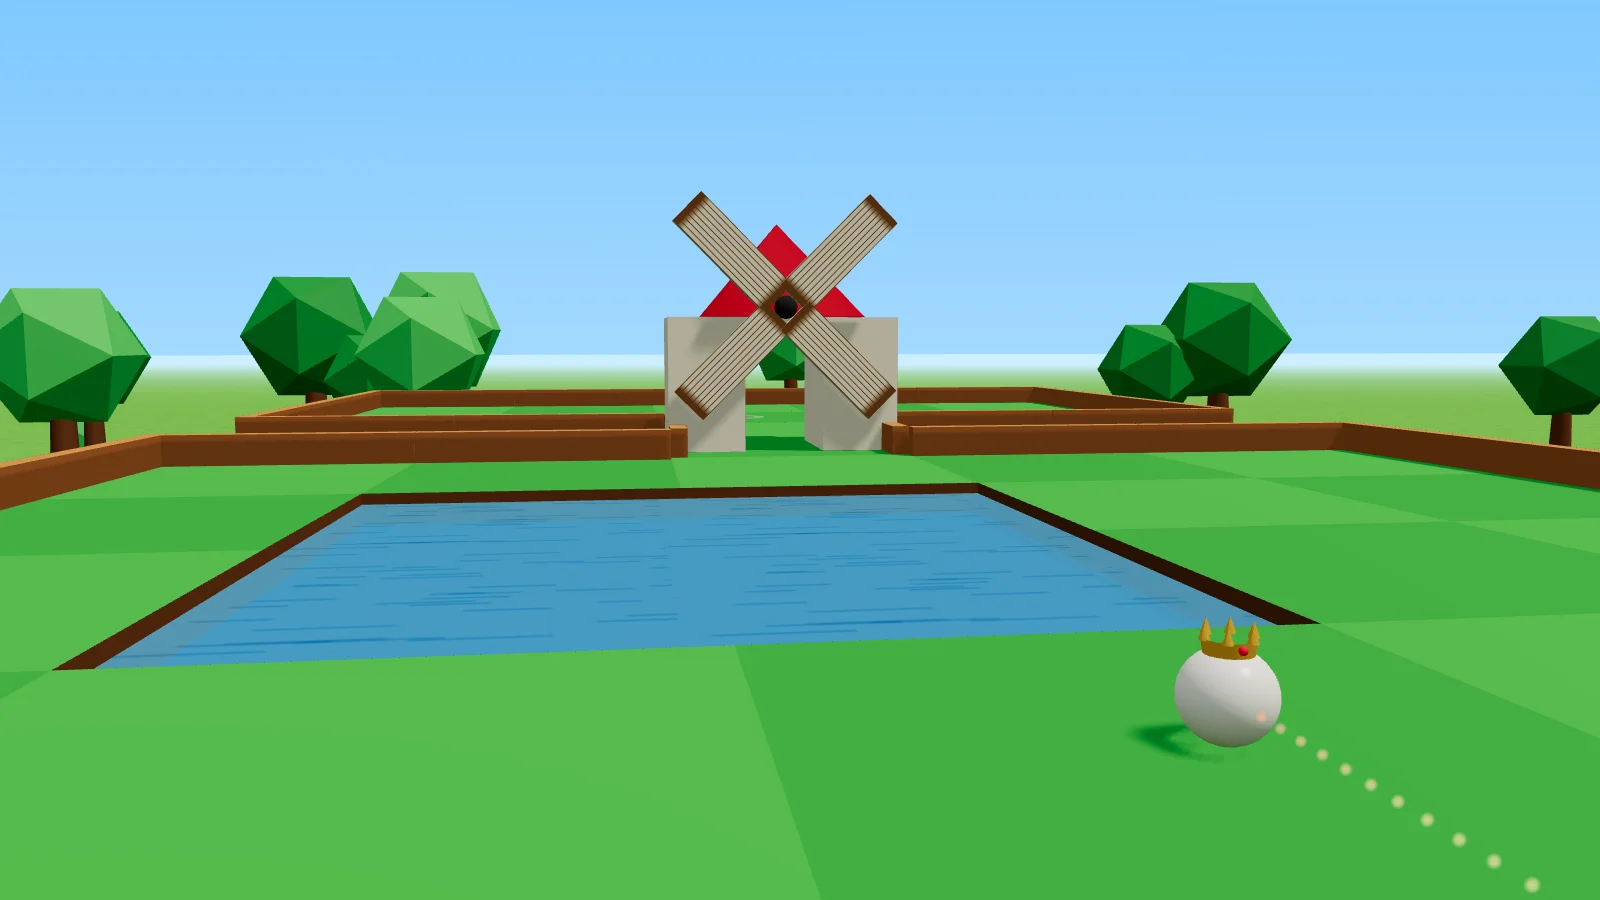
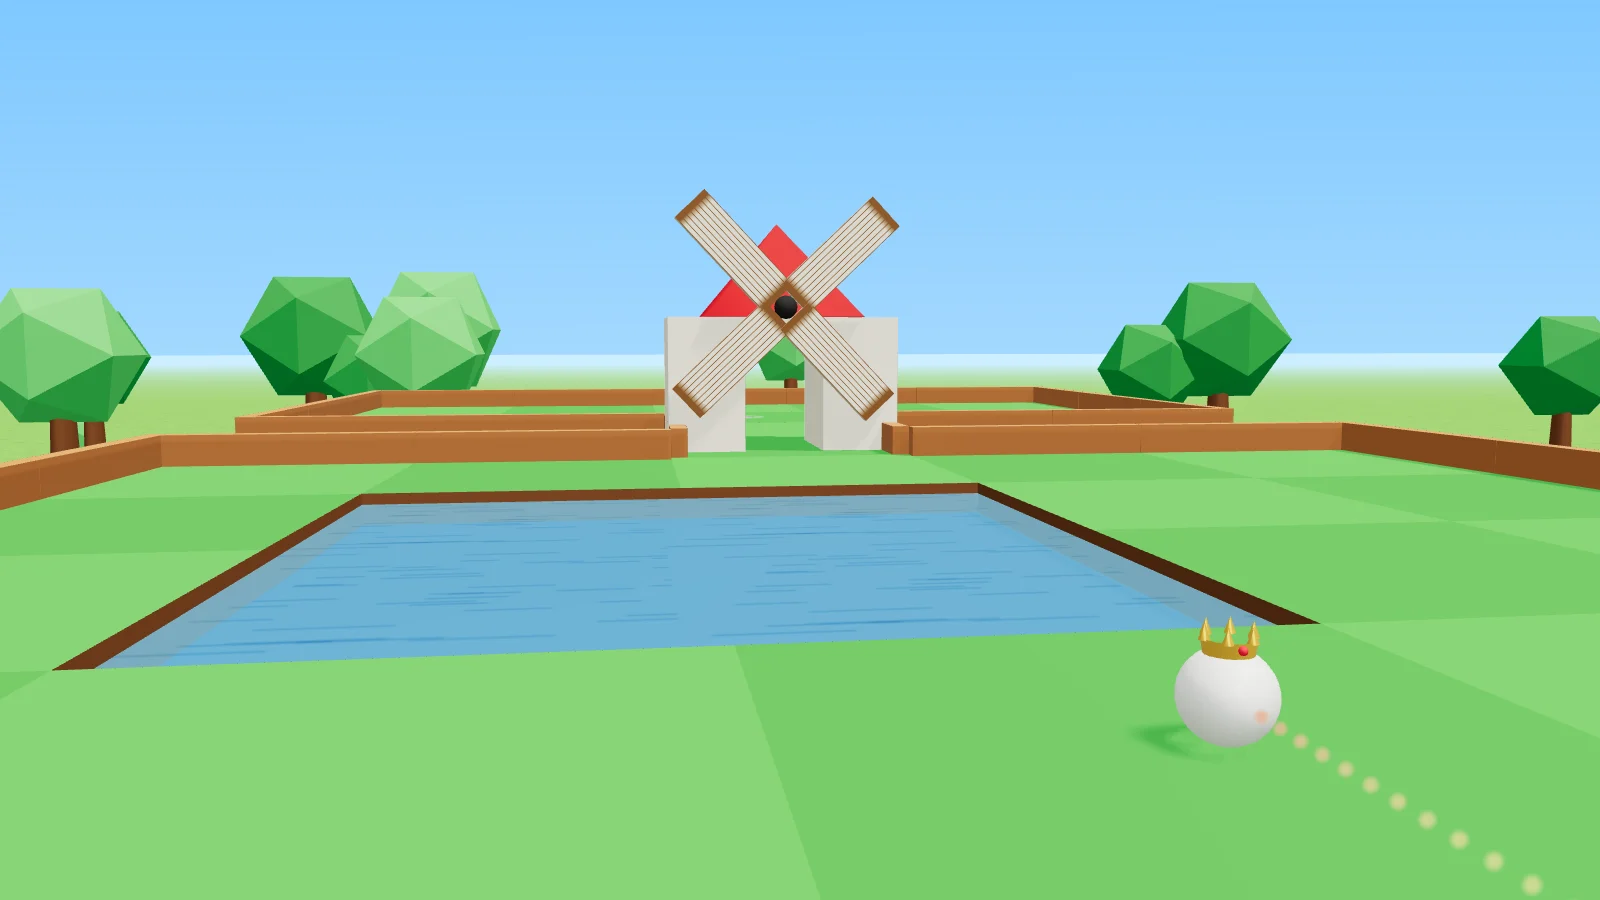
Minigolf Baso: riflessi ambiente, cancelli e lava/acqua con texture, scorecard e test e2e del giro completo
Claude-Session: https://claude.ai/code/session_016m2WYRmSGpEHYcJ2gk4eQy

diff --git a/src/minigolf/render.js b/src/minigolf/render.js
@@ -2,6 +2,7 @@
 // moving pieces drawn from the physics shapes (what you see is what the ball hits), themed props
 // around the course, the ball with its hat and trail, and the aiming helpers.
 import * as THREE from 'three';
+import { RoomEnvironment } from 'three/examples/jsm/environments/RoomEnvironment.js';
 import { LV, BALL_R, CUP_R, DIRS, isHaz, cornerY } from './holes.js';
 import { THEMES } from './courses.js';
 
@@ -104,6 +105,8 @@ export class HoleView {
       Object.assign(sun.shadow.camera, { left: -S, right: S, top: S, bottom: -S, near: 1, far: 50 });
       sun.shadow.mapSize.set(hi ? 2048 : 1024, hi ? 2048 : 1024); sun.shadow.bias = -0.0005; sun.shadow.normalBias = 0.01;
     } else renderer.shadowMap.enabled = false;
+    // soft studio reflections for metals and shiny balls (not on the lowest tier)
+    if (!low) { const pm = new THREE.PMREMGenerator(renderer); this.envTex = scene.environment = pm.fromScene(new RoomEnvironment(), 0.04).texture; pm.dispose(); scene.environmentIntensity = 0.3; }
     this.anim = [];
     this.buildCourse();
     this.buildProps();
@@ -242,7 +245,7 @@ export class HoleView {
       const geom = new THREE.BoxGeometry(k.half[0] * 2, k.half[1] * 2, k.half[2] * 2);
       const m = new THREE.Mesh(geom, k.type === 'blade'
         ? new THREE.MeshStandardMaterial({ color: '#fff', map: canvasTex(32, 128, (g, W, H) => { g.fillStyle = '#f7efe2'; g.fillRect(0, 0, W, H); g.strokeStyle = '#8a5a2b'; g.lineWidth = 3; for (let y = 0; y < H; y += 16) { g.beginPath(); g.moveTo(0, y); g.lineTo(W, y); g.stroke(); } g.strokeRect(1, 1, W - 2, H - 2); }), roughness: 0.7 })
-        : new THREE.MeshStandardMaterial({ color: this.opts.theme === 'castello' ? '#5b5b66' : '#ff8a1f', metalness: this.opts.theme === 'castello' ? 0.6 : 0.1, roughness: 0.45, emissive: this.opts.theme === 'spazio' ? '#ff5f9e' : '#000', emissiveIntensity: 0.25 }));
+        : new THREE.MeshStandardMaterial({ color: this.opts.theme === 'castello' ? '#8a8fa0' : '#ff8a1f', map: this.opts.theme === 'castello' ? canvasTex(64, 32, (g, W, H) => { g.fillStyle = '#6d717e'; g.fillRect(0, 0, W, H); g.fillStyle = '#2d2f36'; for (let x = 4; x < W; x += 12) g.fillRect(x, 0, 4, H); for (let y = 6; y < H; y += 12) g.fillRect(0, y, W, 3); }) : null, metalness: this.opts.theme === 'castello' ? 0.3 : 0.1, roughness: 0.45, emissive: this.opts.theme === 'spazio' ? '#ff5f9e' : '#000', emissiveIntensity: 0.25 }));
       m.castShadow = true; this.scene.add(m); return m;
     });
   }
@@ -398,7 +401,7 @@ export class HoleView {
   bump(b) { const v = this.bumperMeshes.get(b); if (v) v.hit = 1; }
   dispose() {
     this.scene.traverse((o) => { o.geometry?.dispose?.(); const ms = Array.isArray(o.material) ? o.material : o.material ? [o.material] : []; for (const m of ms) { if (m.map && m.map !== DOT[0] && m.map !== DOT[1]) m.map.dispose(); m.dispose?.(); } });
-    this.scene.background?.dispose?.();
+    this.scene.background?.dispose?.(); this.envTex?.dispose();
   }
 }
 function exitDirOf(sim, pad) {

diff --git a/src/minigolf/minigolf.css b/src/minigolf/minigolf.css
@@ -158,7 +158,7 @@
 .mg-sc tr.par td { color: var(--muted); }
 .mg-sc td:first-child { text-align: left; white-space: nowrap; }
 .mg-sc td:first-child i { display: inline-block; width: 10px; height: 10px; border-radius: 50%; background: var(--c); margin-right: 6px; }
-.mg-sc td.ace { background: var(--gold); color: #000; font-weight: 800; border-radius: 50%; }
+.mg-sc td.ace { color: var(--gold); font-weight: 900; text-shadow: 0 0 10px rgba(245,197,66,.7); }
 .mg-sc td.under { color: #6ee7a0; font-weight: 800; }
 .mg-sc td.over { color: #ff9b9b; }
 

diff --git a/src/minigolf/game.js b/src/minigolf/game.js
@@ -232,7 +232,7 @@ export class MinigolfGame {
     this.loadHole(this.hi + 1);
   }
   finish() {
-    this.phase = 'end';
+    this.phase = 'end'; this.over.innerHTML = ''; this.hud.innerHTML = '';
     const parTot = this.holes.reduce((a, h) => a + h.par, 0);
     const players = this.players.map((p) => ({ name: p.name, color: p.color, card: p.card, total: p.total, vs: p.total - parTot }));
     this.o.onEnd?.({ players, par: parTot, holes: this.holes });
